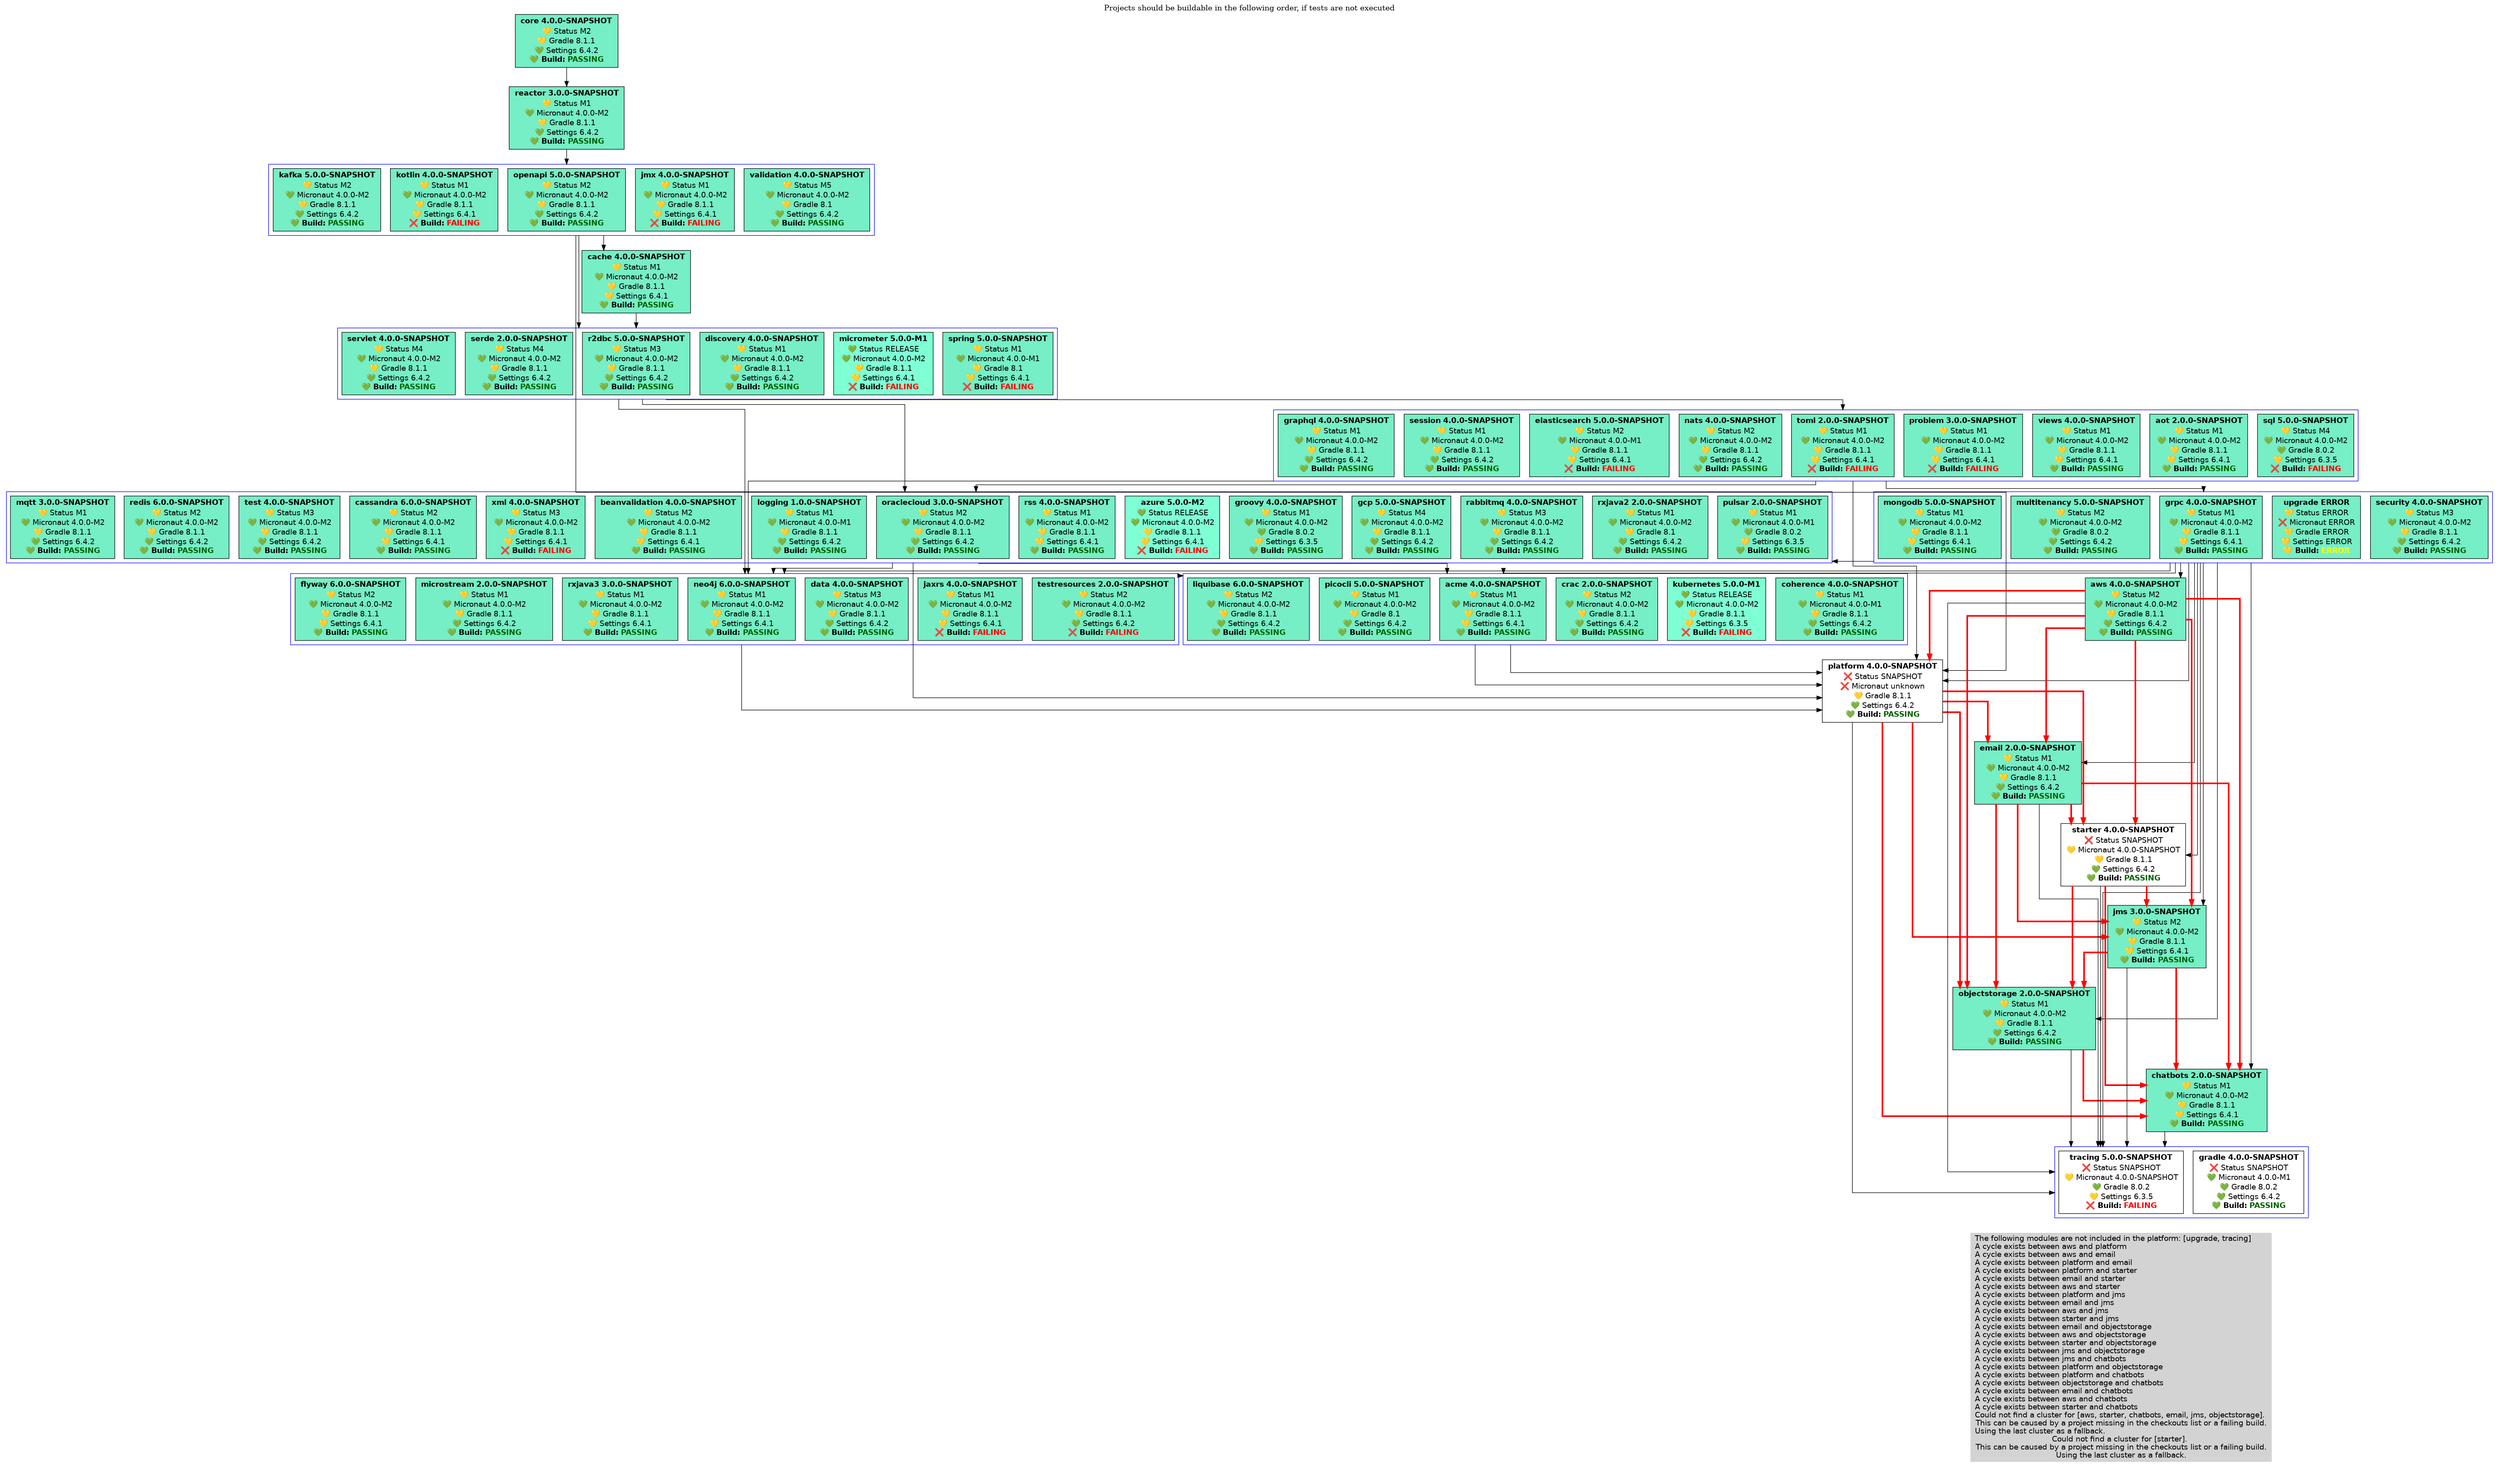
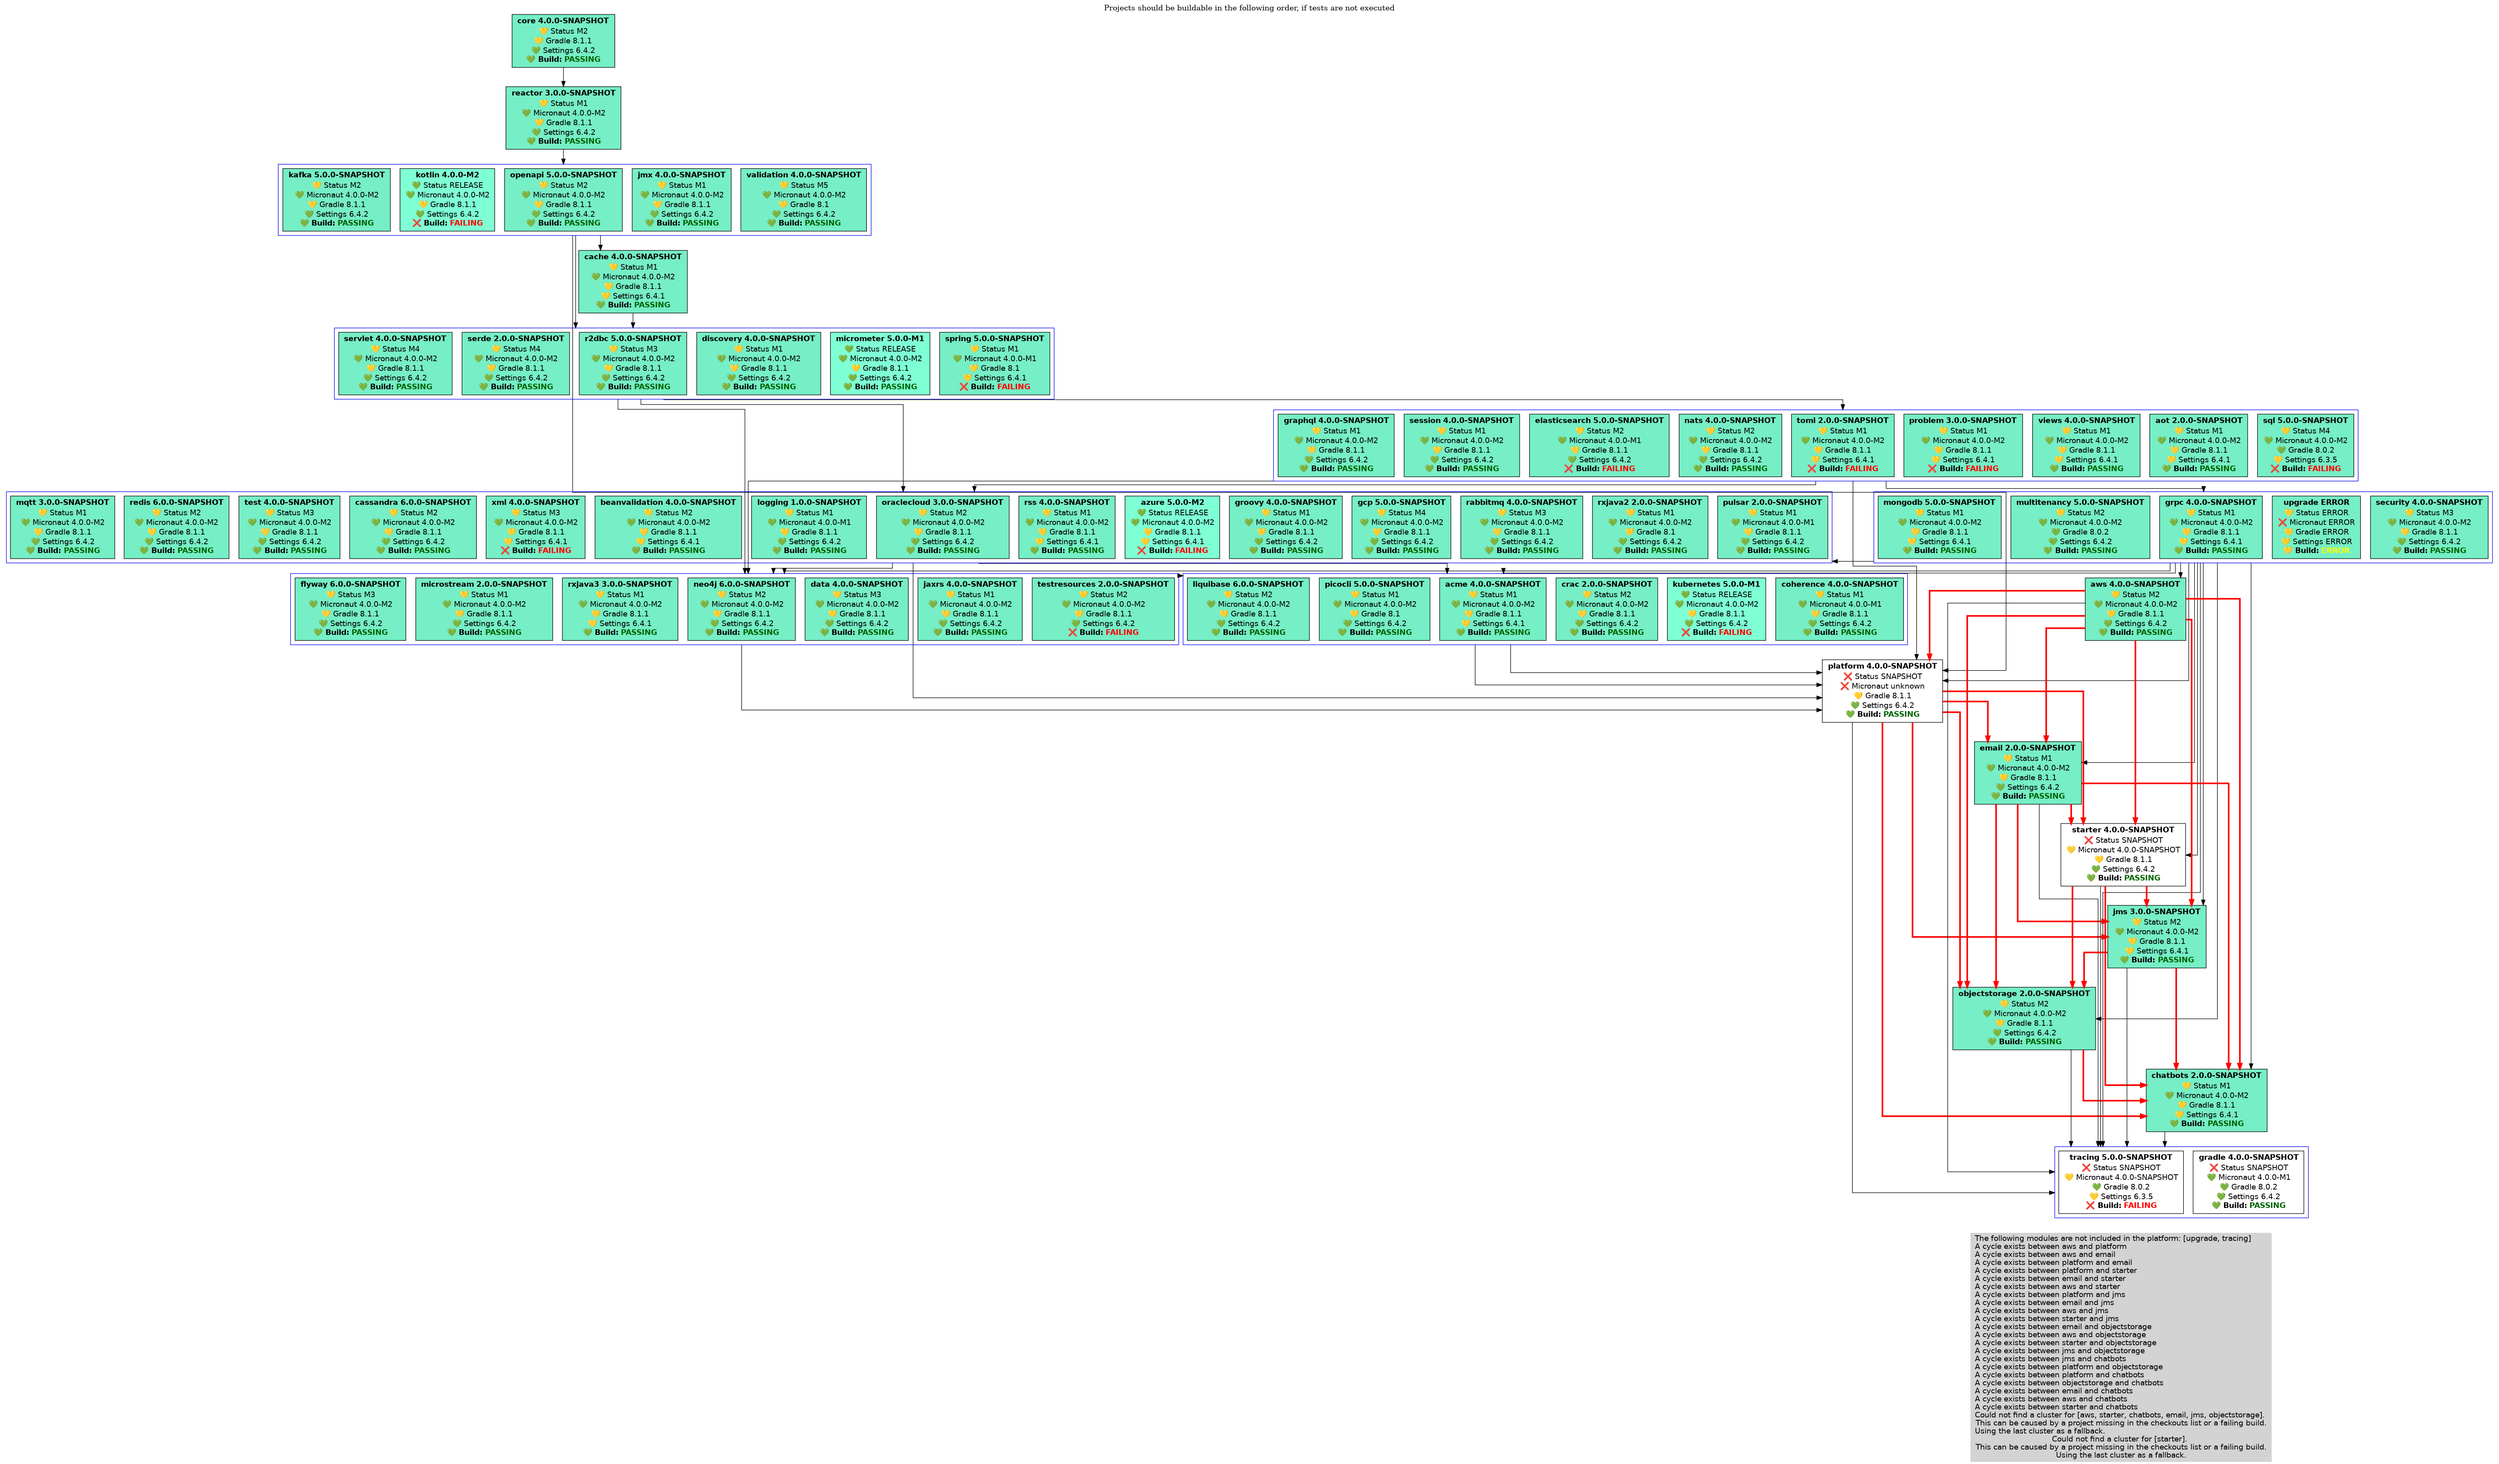
deploy: b464e8ff599e8dcc9e4e8443b7c0bbcfb0db7a98

Changed region(s): [[0.0935, 0.0, 0.4362, 0.2812], [0.3739, 0.4062, 0.405, 0.4375]]

diff --git a/index.html b/index.html
@@ -80,7 +80,7 @@
 <body>
 <div class="header">
     <img src="https://micronaut.io/wp-content/uploads/2020/11/MIcronautLogo_Horizontal.svg">
-    <div class="right">Generated at May 4, 2023, 12:32:00 AM</div>
+    <div class="right">Generated at May 4, 2023, 6:18:38 AM</div>
 </div>
 <div class="row">
     <nav>
@@ -139,7 +139,7 @@
 <TR><TD>&#128155; Status M2</TD></TR>
 <TR><TD>&#128154; Micronaut 4.0.0-M2</TD></TR>
 <TR><TD>&#128155; Gradle 8.1.1</TD></TR>
-<TR><TD>&#128155; Settings 6.4.1</TD></TR>
+<TR><TD>&#128154; Settings 6.4.2</TD></TR>
 <TR><TD>&#128154; <B>Build: <FONT COLOR="darkgreen">PASSING</FONT></B></TD></TR>
 </TABLE></li>
         <li class="item" onclick="showImage(this, 'project-graph-chatbots.png')"><TABLE BORDER="0" CELLSPACING="1" CELLPADDING="1" STYLE="rounded">
@@ -195,7 +195,7 @@
 <TR><TD>&#128155; Status M2</TD></TR>
 <TR><TD>&#128154; Micronaut 4.0.0-M1</TD></TR>
 <TR><TD>&#128155; Gradle 8.1.1</TD></TR>
-<TR><TD>&#128155; Settings 6.4.1</TD></TR>
+<TR><TD>&#128154; Settings 6.4.2</TD></TR>
 <TR><TD>&#10060; <B>Build: <FONT COLOR="red">FAILING</FONT></B></TD></TR>
 </TABLE></li>
         <li class="item" onclick="showImage(this, 'project-graph-email.png')"><TABLE BORDER="0" CELLSPACING="1" CELLPADDING="1" STYLE="rounded">
@@ -208,10 +208,10 @@
 </TABLE></li>
         <li class="item" onclick="showImage(this, 'project-graph-flyway.png')"><TABLE BORDER="0" CELLSPACING="1" CELLPADDING="1" STYLE="rounded">
 <TR><TD><B>flyway 6.0.0-SNAPSHOT</B></TD></TR>
-<TR><TD>&#128155; Status M2</TD></TR>
+<TR><TD>&#128155; Status M3</TD></TR>
 <TR><TD>&#128154; Micronaut 4.0.0-M2</TD></TR>
 <TR><TD>&#128155; Gradle 8.1.1</TD></TR>
-<TR><TD>&#128155; Settings 6.4.1</TD></TR>
+<TR><TD>&#128154; Settings 6.4.2</TD></TR>
 <TR><TD>&#128154; <B>Build: <FONT COLOR="darkgreen">PASSING</FONT></B></TD></TR>
 </TABLE></li>
         <li class="item" onclick="showImage(this, 'project-graph-gcp.png')"><TABLE BORDER="0" CELLSPACING="1" CELLPADDING="1" STYLE="rounded">
@@ -242,8 +242,8 @@
 <TR><TD><B>groovy 4.0.0-SNAPSHOT</B></TD></TR>
 <TR><TD>&#128155; Status M1</TD></TR>
 <TR><TD>&#128154; Micronaut 4.0.0-M2</TD></TR>
-<TR><TD>&#128154; Gradle 8.0.2</TD></TR>
-<TR><TD>&#128155; Settings 6.3.5</TD></TR>
+<TR><TD>&#128155; Gradle 8.1.1</TD></TR>
+<TR><TD>&#128154; Settings 6.4.2</TD></TR>
 <TR><TD>&#128154; <B>Build: <FONT COLOR="darkgreen">PASSING</FONT></B></TD></TR>
 </TABLE></li>
         <li class="item" onclick="showImage(this, 'project-graph-grpc.png')"><TABLE BORDER="0" CELLSPACING="1" CELLPADDING="1" STYLE="rounded">
@@ -259,8 +259,8 @@
 <TR><TD>&#128155; Status M1</TD></TR>
 <TR><TD>&#128154; Micronaut 4.0.0-M2</TD></TR>
 <TR><TD>&#128155; Gradle 8.1.1</TD></TR>
-<TR><TD>&#128155; Settings 6.4.1</TD></TR>
-<TR><TD>&#10060; <B>Build: <FONT COLOR="red">FAILING</FONT></B></TD></TR>
+<TR><TD>&#128154; Settings 6.4.2</TD></TR>
+<TR><TD>&#128154; <B>Build: <FONT COLOR="darkgreen">PASSING</FONT></B></TD></TR>
 </TABLE></li>
         <li class="item" onclick="showImage(this, 'project-graph-jms.png')"><TABLE BORDER="0" CELLSPACING="1" CELLPADDING="1" STYLE="rounded">
 <TR><TD><B>jms 3.0.0-SNAPSHOT</B></TD></TR>
@@ -275,8 +275,8 @@
 <TR><TD>&#128155; Status M1</TD></TR>
 <TR><TD>&#128154; Micronaut 4.0.0-M2</TD></TR>
 <TR><TD>&#128155; Gradle 8.1.1</TD></TR>
-<TR><TD>&#128155; Settings 6.4.1</TD></TR>
-<TR><TD>&#10060; <B>Build: <FONT COLOR="red">FAILING</FONT></B></TD></TR>
+<TR><TD>&#128154; Settings 6.4.2</TD></TR>
+<TR><TD>&#128154; <B>Build: <FONT COLOR="darkgreen">PASSING</FONT></B></TD></TR>
 </TABLE></li>
         <li class="item" onclick="showImage(this, 'project-graph-kafka.png')"><TABLE BORDER="0" CELLSPACING="1" CELLPADDING="1" STYLE="rounded">
 <TR><TD><B>kafka 5.0.0-SNAPSHOT</B></TD></TR>
@@ -287,11 +287,11 @@
 <TR><TD>&#128154; <B>Build: <FONT COLOR="darkgreen">PASSING</FONT></B></TD></TR>
 </TABLE></li>
         <li class="item" onclick="showImage(this, 'project-graph-kotlin.png')"><TABLE BORDER="0" CELLSPACING="1" CELLPADDING="1" STYLE="rounded">
-<TR><TD><B>kotlin 4.0.0-SNAPSHOT</B></TD></TR>
-<TR><TD>&#128155; Status M1</TD></TR>
+<TR><TD><B>kotlin 4.0.0-M2</B></TD></TR>
+<TR><TD>&#128154; Status RELEASE</TD></TR>
 <TR><TD>&#128154; Micronaut 4.0.0-M2</TD></TR>
 <TR><TD>&#128155; Gradle 8.1.1</TD></TR>
-<TR><TD>&#128155; Settings 6.4.1</TD></TR>
+<TR><TD>&#128154; Settings 6.4.2</TD></TR>
 <TR><TD>&#10060; <B>Build: <FONT COLOR="red">FAILING</FONT></B></TD></TR>
 </TABLE></li>
         <li class="item" onclick="showImage(this, 'project-graph-kubernetes.png')"><TABLE BORDER="0" CELLSPACING="1" CELLPADDING="1" STYLE="rounded">
@@ -299,7 +299,7 @@
 <TR><TD>&#128154; Status RELEASE</TD></TR>
 <TR><TD>&#128154; Micronaut 4.0.0-M2</TD></TR>
 <TR><TD>&#128155; Gradle 8.1.1</TD></TR>
-<TR><TD>&#128155; Settings 6.3.5</TD></TR>
+<TR><TD>&#128154; Settings 6.4.2</TD></TR>
 <TR><TD>&#10060; <B>Build: <FONT COLOR="red">FAILING</FONT></B></TD></TR>
 </TABLE></li>
         <li class="item" onclick="showImage(this, 'project-graph-liquibase.png')"><TABLE BORDER="0" CELLSPACING="1" CELLPADDING="1" STYLE="rounded">
@@ -323,8 +323,8 @@
 <TR><TD>&#128154; Status RELEASE</TD></TR>
 <TR><TD>&#128154; Micronaut 4.0.0-M2</TD></TR>
 <TR><TD>&#128155; Gradle 8.1.1</TD></TR>
-<TR><TD>&#128155; Settings 6.4.1</TD></TR>
-<TR><TD>&#10060; <B>Build: <FONT COLOR="red">FAILING</FONT></B></TD></TR>
+<TR><TD>&#128154; Settings 6.4.2</TD></TR>
+<TR><TD>&#128154; <B>Build: <FONT COLOR="darkgreen">PASSING</FONT></B></TD></TR>
 </TABLE></li>
         <li class="item" onclick="showImage(this, 'project-graph-microstream.png')"><TABLE BORDER="0" CELLSPACING="1" CELLPADDING="1" STYLE="rounded">
 <TR><TD><B>microstream 2.0.0-SNAPSHOT</B></TD></TR>
@@ -368,15 +368,15 @@
 </TABLE></li>
         <li class="item" onclick="showImage(this, 'project-graph-neo4j.png')"><TABLE BORDER="0" CELLSPACING="1" CELLPADDING="1" STYLE="rounded">
 <TR><TD><B>neo4j 6.0.0-SNAPSHOT</B></TD></TR>
-<TR><TD>&#128155; Status M1</TD></TR>
+<TR><TD>&#128155; Status M2</TD></TR>
 <TR><TD>&#128154; Micronaut 4.0.0-M2</TD></TR>
 <TR><TD>&#128155; Gradle 8.1.1</TD></TR>
-<TR><TD>&#128155; Settings 6.4.1</TD></TR>
+<TR><TD>&#128154; Settings 6.4.2</TD></TR>
 <TR><TD>&#128154; <B>Build: <FONT COLOR="darkgreen">PASSING</FONT></B></TD></TR>
 </TABLE></li>
         <li class="item" onclick="showImage(this, 'project-graph-objectstorage.png')"><TABLE BORDER="0" CELLSPACING="1" CELLPADDING="1" STYLE="rounded">
 <TR><TD><B>objectstorage 2.0.0-SNAPSHOT</B></TD></TR>
-<TR><TD>&#128155; Status M1</TD></TR>
+<TR><TD>&#128155; Status M2</TD></TR>
 <TR><TD>&#128154; Micronaut 4.0.0-M2</TD></TR>
 <TR><TD>&#128155; Gradle 8.1.1</TD></TR>
 <TR><TD>&#128154; Settings 6.4.2</TD></TR>
@@ -426,8 +426,8 @@
 <TR><TD><B>pulsar 2.0.0-SNAPSHOT</B></TD></TR>
 <TR><TD>&#128155; Status M1</TD></TR>
 <TR><TD>&#128154; Micronaut 4.0.0-M1</TD></TR>
-<TR><TD>&#128154; Gradle 8.0.2</TD></TR>
-<TR><TD>&#128155; Settings 6.3.5</TD></TR>
+<TR><TD>&#128155; Gradle 8.1.1</TD></TR>
+<TR><TD>&#128154; Settings 6.4.2</TD></TR>
 <TR><TD>&#128154; <B>Build: <FONT COLOR="darkgreen">PASSING</FONT></B></TD></TR>
 </TABLE></li>
         <li class="item" onclick="showImage(this, 'project-graph-r2dbc.png')"><TABLE BORDER="0" CELLSPACING="1" CELLPADDING="1" STYLE="rounded">
